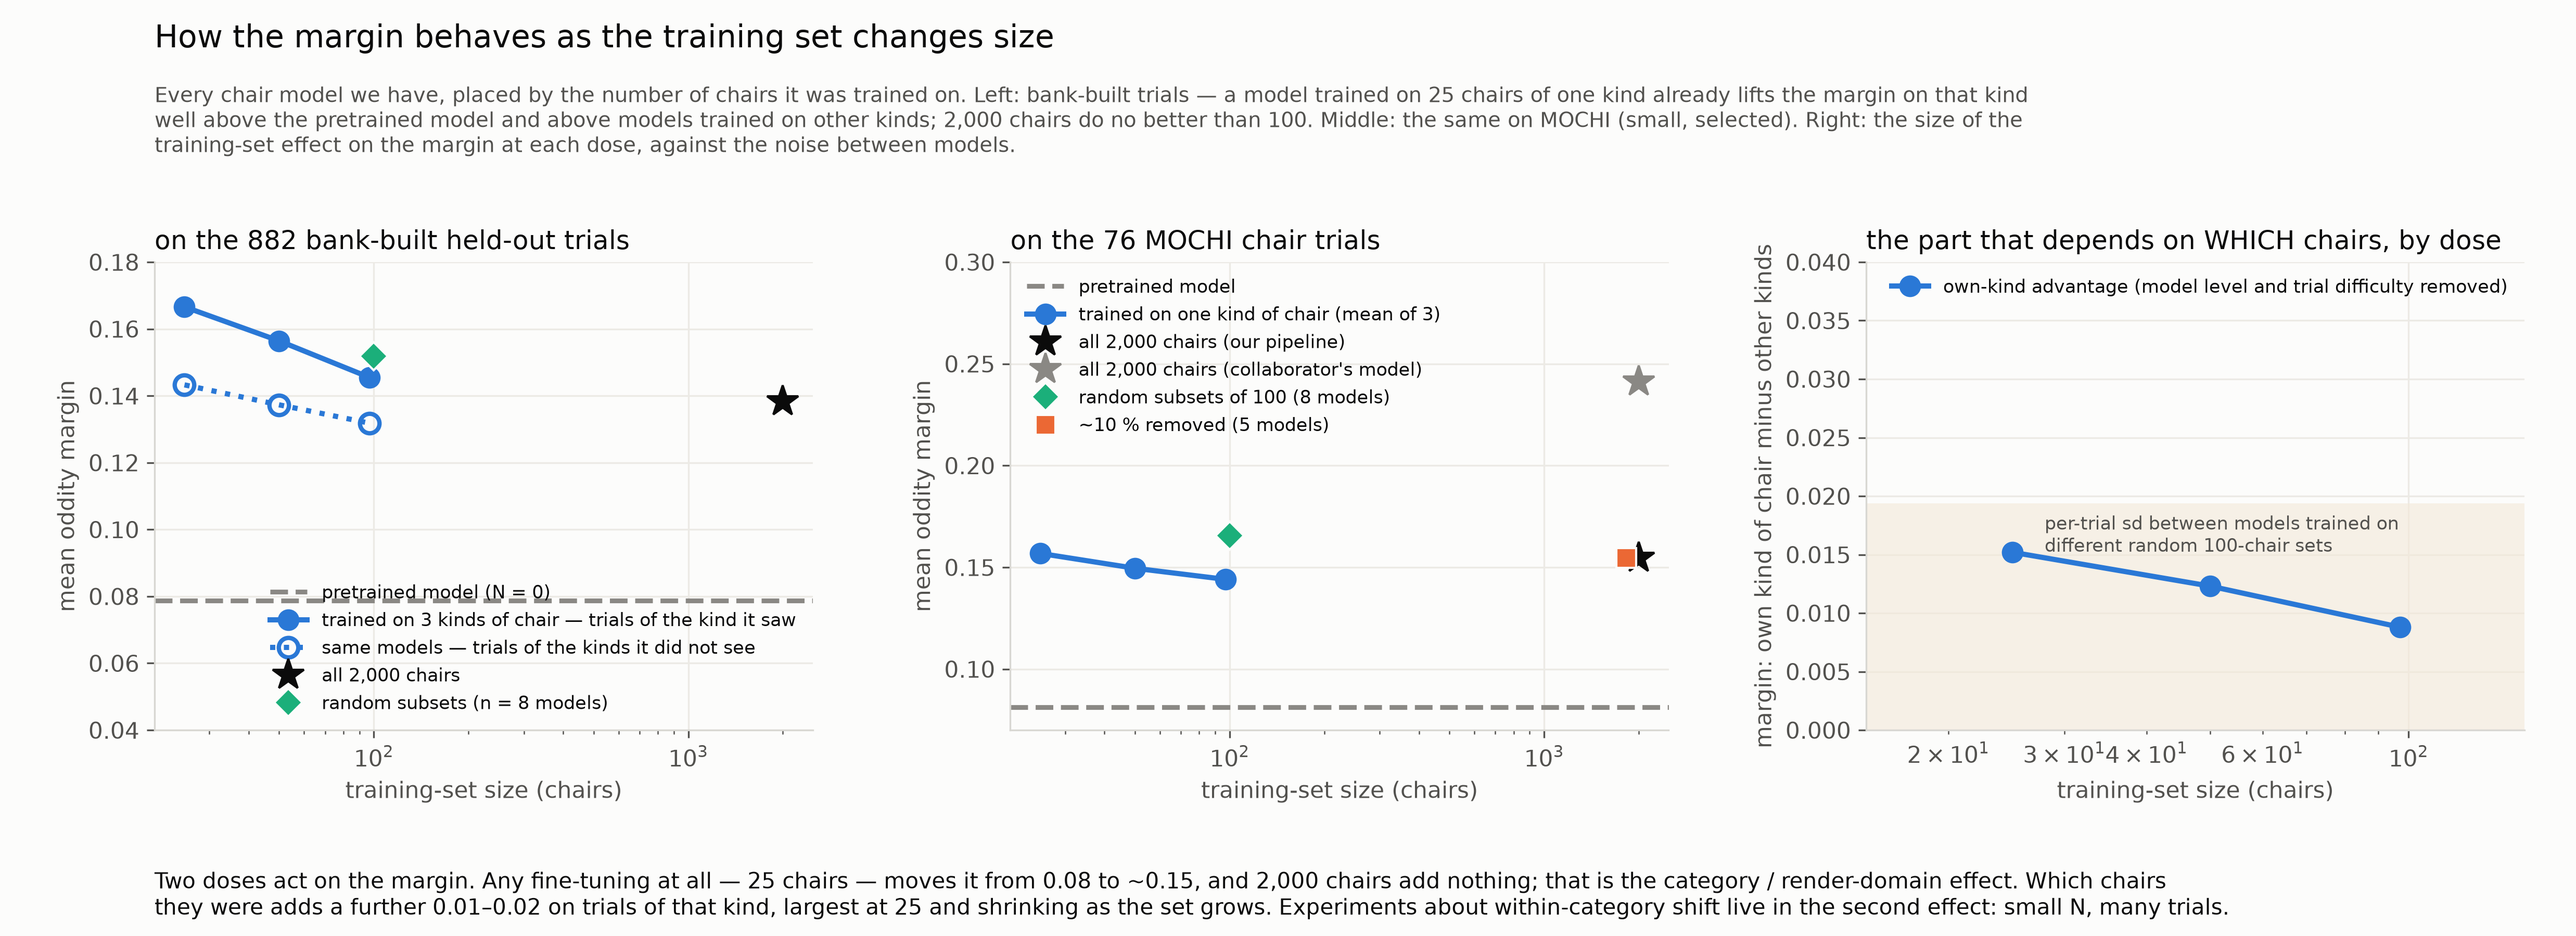
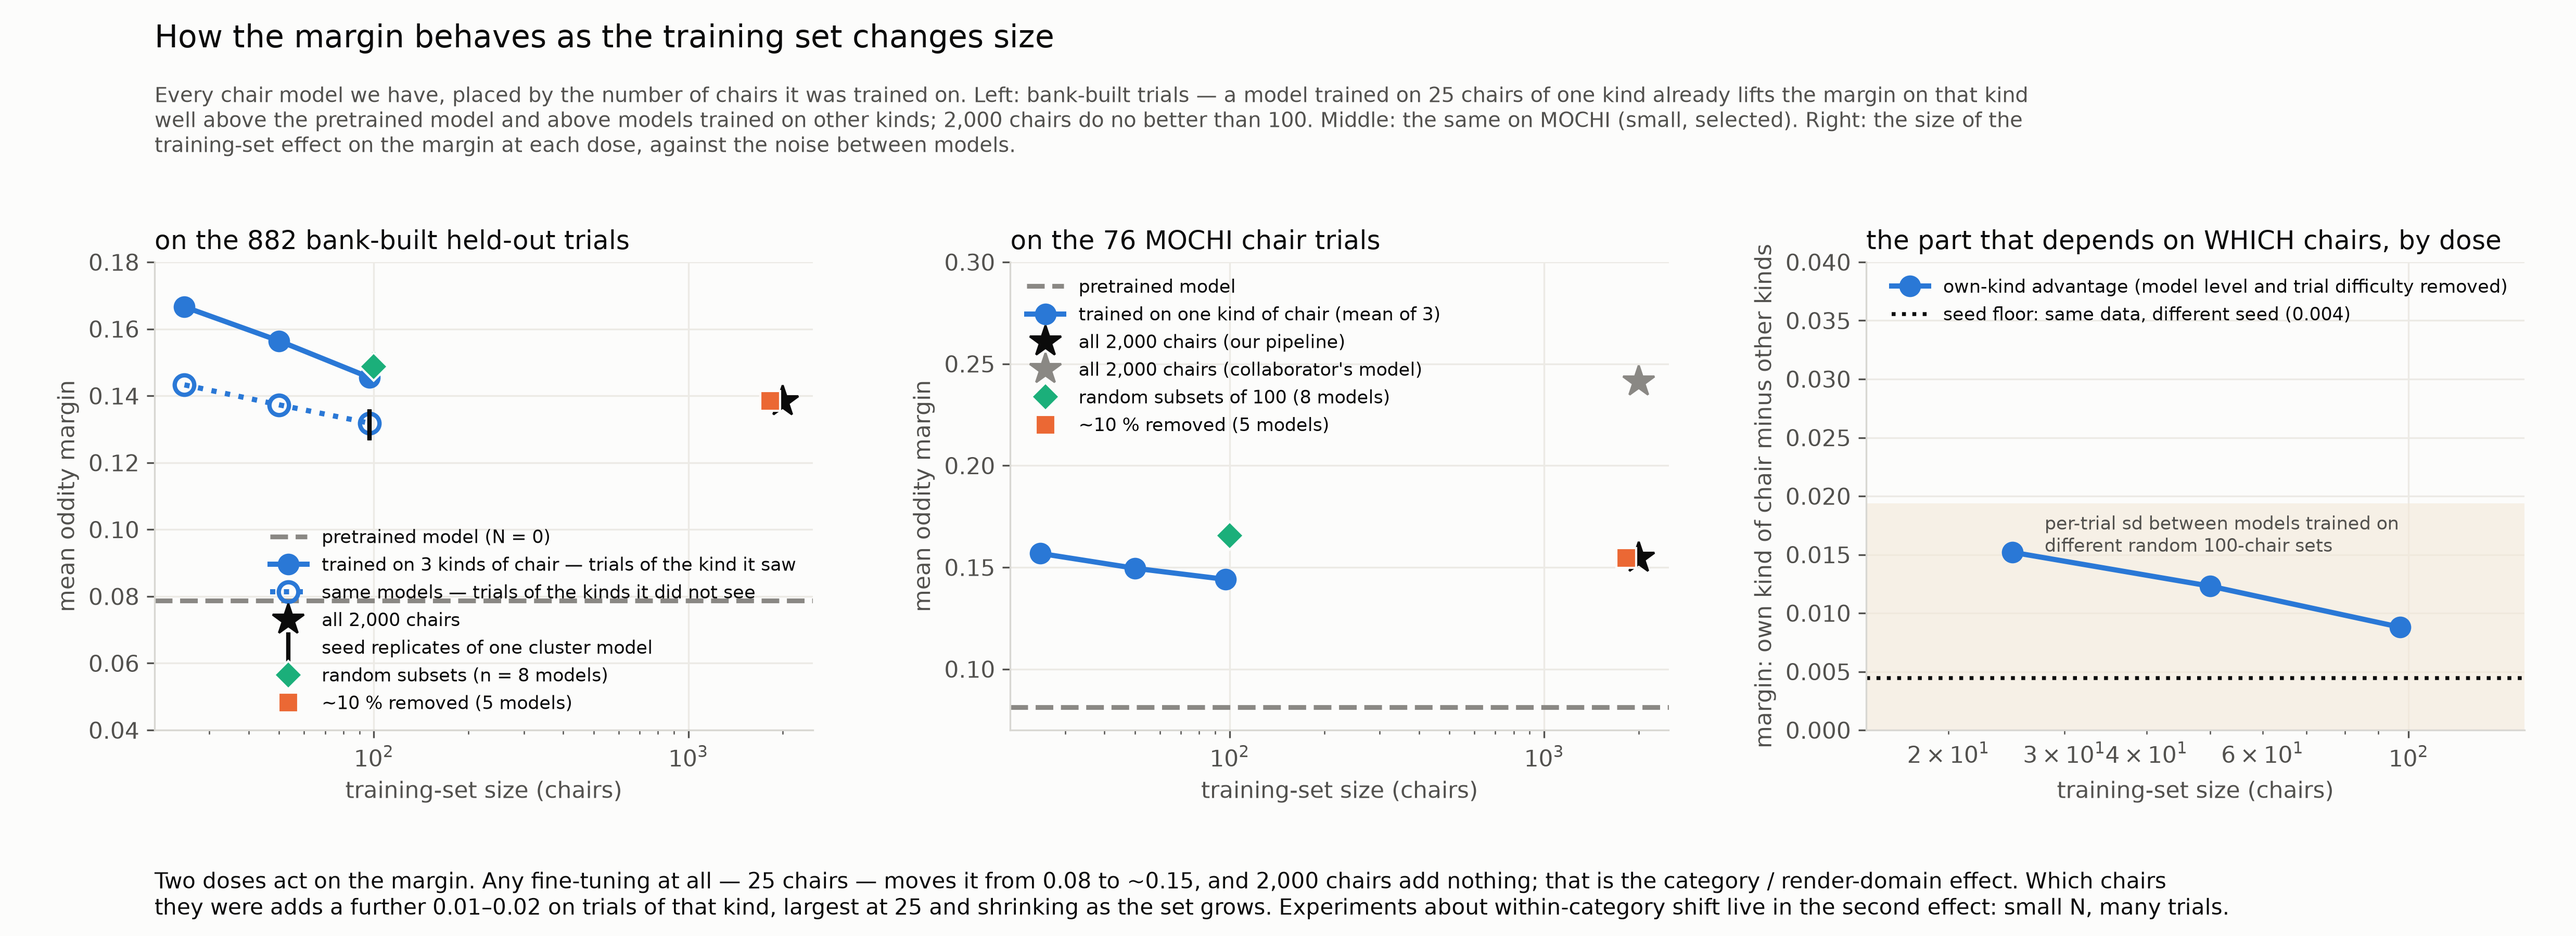
D26: raw rise explained (pair-distance confound, r 0.81); seed floor 0.0035; cluster-free random-subset test passes (p = 0.001); fig73; CHECKS
Claude-Session: https://claude.ai/code/session_017LnypoNuPTEd3UcTymGK1X

diff --git a/scratch/fig_why_margin_rises.py b/scratch/fig_why_margin_rises.py
@@ -1,0 +1,34 @@
+"""Why the as-measured margin RISES with distance to the training set on bank trials: the trials pair each object with a
+near neighbour, and objects far from the training set live in sparse regions, so their neighbours are farther too."""
+import numpy as np, pandas as pd
+from scipy import stats
+import matplotlib; matplotlib.use('Agg'); import matplotlib.pyplot as plt
+G='/vast/projects/bonnen/naturalistic-navig/Dist-shift-data/geometric_shift'
+BLUE,GREY,SURF,INK,INK2,OK,BAD='#2a78d6','#8a8884','#fcfcfb','#0b0b0b','#52514e','#1baf7a','#eb6834'
+plt.rcParams.update({'figure.facecolor':SURF,'axes.facecolor':SURF,'savefig.facecolor':SURF,'font.family':'DejaVu Sans','text.color':INK,'axes.labelcolor':INK2,'xtick.color':INK2,'ytick.color':INK2,'axes.edgecolor':'#d8d7d2','font.size':10.5,'axes.titlesize':12})
+def style(a): a.spines['top'].set_visible(False); a.spines['right'].set_visible(False); a.grid(color='#eceae5',lw=.8,zorder=0); a.set_axisbelow(True)
+def box(a,txt,c,where='ur'):
+    x,y,va,ha={'ur':(0.98,0.96,'top','right'),'ul':(0.02,0.96,'top','left'),'ll':(0.02,0.04,'bottom','left'),'lr':(0.98,0.04,'bottom','right')}[where]
+    a.text(x,y,txt,transform=a.transAxes,fontsize=9.6,color=c,va=va,ha=ha,bbox=dict(boxstyle='round,pad=.4',fc=SURF,ec=c,lw=1.2))
+def bins(x,y,nb=10):
+    q=pd.qcut(x.rank(method='first'),nb,labels=False); gg=pd.DataFrame({'q':q,'x':x,'y':y}).groupby('q'); return gg.x.mean(),gg.y.mean(),gg.y.sem()
+T=pd.read_csv(f'{G}/out/banktrials_dAB.csv')
+def partial(x,y,z):
+    rxy,rxz,ryz=[stats.pearsonr(a,b)[0] for a,b in [(x,y),(x,z),(y,z)]]; return (rxy-rxz*ryz)/np.sqrt((1-rxz**2)*(1-ryz**2))
+fig,ax=plt.subplots(1,3,figsize=(16,5.6)); fig.subplots_adjust(left=.06,right=.98,top=.7,bottom=.2,wspace=.28)
+a=ax[0]; style(a); bx,by,be=bins(T.dist2000,T.dAB); a.errorbar(bx,by,yerr=be,fmt='o-',color=INK,ms=8,mec=SURF,lw=2.4,ecolor='#d5d3ce',zorder=4)
+a.set_xlabel('distance from the trial\'s objects to the training set (all 2,000 chairs)   farther →'); a.set_ylabel('distance between the trial\'s two objects'); a.set_title('far from training = far from everything, including its own partner',loc='left',fontsize=10.5)
+box(a,f'r = {stats.pearsonr(T.dist2000,T.dAB)[0]:+.2f}\nthe trial pairs each object with a near neighbour;\nin a sparse region the nearest neighbour is far',INK,'ul')
+a=ax[1]; style(a); bx,by,be=bins(T.dAB,T.pre); a.errorbar(bx,by,yerr=be,fmt='o--',color=GREY,ms=8,mec=SURF,lw=2.2,ecolor='#d5d3ce',zorder=3,label='pretrained model'); bx,by,be=bins(T.dAB,T.ft2000); a.errorbar(bx,by,yerr=be,fmt='o-',color=BLUE,ms=8,mec=SURF,lw=2.4,ecolor='#bcd0ea',zorder=4,label='model trained on all 2,000 chairs')
+a.set_xlabel('distance between the trial\'s two objects   more different →'); a.set_ylabel('oddity margin'); a.set_title('and a trial whose two objects differ more is easier — for every model',loc='left',fontsize=10.5); a.legend(fontsize=9,frameon=False,loc='lower right')
+box(a,f'pretrained r = {stats.pearsonr(T.dAB,T.pre)[0]:+.2f}   fine-tuned r = {stats.pearsonr(T.dAB,T.ft2000)[0]:+.2f}',INK,'ul')
+a=ax[2]; style(a)
+res_pre=T.pre-np.polyval(np.polyfit(T.dAB,T.pre,1),T.dAB); res_d=T.dist2000-np.polyval(np.polyfit(T.dAB,T.dist2000,1),T.dAB)
+bx,by,be=bins(res_d,res_pre); a.errorbar(bx,by,yerr=be,fmt='o--',color=GREY,ms=8,mec=SURF,lw=2.2,ecolor='#d5d3ce',zorder=3,label='pretrained model')
+a.axhline(0,color='#d8d7d2',lw=1); a.set_xlabel('distance to the training set, with the pair distance held fixed'); a.set_ylabel('pretrained margin, with the pair distance held fixed'); a.set_title('hold the pair distance fixed: the rise is gone',loc='left',fontsize=10.5)
+box(a,f'r = {partial(T.dist2000,T.pre,T.dAB):+.2f}\n✓  flat: nothing about the training set',OK,'ur')
+fig.suptitle('Why the margin seemed to rise with distance from the training set',fontsize=15,x=.06,ha='left',y=.975)
+fig.text(.06,.9,'On the bank-built trials the "as measured" curves rose with distance to the training set before falling. That is not the training set: it is how the trials were built. Each held-out\n'
+ 'object is paired with one of its ten nearest held-out neighbours. Objects far from the training set sit in sparse regions of shape space, so their nearest neighbours are also far —\n'
+ 'the trial\'s two objects differ more, and the trial is easier for any model, trained or not.',fontsize=9.8,color=INK2,va='top')
+fig.savefig(f'{G}/out/figures/fig73_why_margin_rises.png',dpi=300); print('[fig] 73')

diff --git a/REASONING.md b/REASONING.md
@@ -9,6 +9,17 @@ Template — one line each:
 **Steering:** who drove it — lead / agent / joint (note when the lead is deferring) ·
 **Confidence:** one line per contributor, by role and identity — `lead (TB)`, `agent (Claude Opus 5)` — low / medium / high, and what they are unsure of.
 
+<a id="D26"></a>
+## D26 — 2026-09-20 — The rise of the raw margin with distance is how the bank trials were built; seed floor 0.0035; the cluster-free random-subset test passes
+**State:** The lead found the left panel of fig72 unintuitive — why would the margin *rise* as the trial gets farther from the training data? All remaining evaluations landed (seeds, eight random-100, five knockouts on bank trials).
+**Observation:** (1) Distance from a trial to the training set correlates 0.81 with the distance between the trial's own two objects: the bank trials pair each held-out object with one of its ten nearest held-out neighbours, and an object far from the training set sits in a sparse region, so its nearest neighbour is also far, so the pair differs more and the trial is easier for any model (pretrained r with pair distance +0.21; fine-tuned +0.24). Hold the pair distance fixed and the pretrained model's rise with distance-to-training goes from +0.18 to +0.02 (evidence/fig73). (2) Seed floor: three models on the same 104 chairs (seeds 42/43/44) differ per trial by sd 0.0035, means within 0.002; the own-vs-other numbers reproduce to three decimals. So the per-trial spread between models trained on *different* random 100-chair sets (0.0165) is almost entirely data content, and the cluster effect (0.009–0.015) is three to four times the seed floor. (3) The cluster-free test: eight random-100-chair models on the 882 bank trials, within trial, distance to the model's own 100 chairs vs margin: r = −0.077, permutation null sd 0.012 (p = 0.001), 57 % of per-trial slopes negative (p = 8e-8). Smaller than with clusters (−0.26) because the contrast is smaller (distance sd 0.038 vs ~0.25); the slope per unit distance is of the same order (−0.033 vs −0.057).
+**Decision:** Treat (1) as a property of the test set to control in round 3: build trials with matched pair distance (or partial it out), so the raw plot is readable as well as the within-trial one. Treat (3) as the answer to "does clustering matter": no — random composition moves the margin in proportion to the distance contrast it creates.
+**Because:** The pair-distance confound is the same object as the ½·d(A,B) floor of the manuscript's metric (D06), reappearing on the test-set side; naming it once more and designing it out is cheaper than explaining it every time.
+**Rejected:** Reading the raw rise as evidence against the measure; treating the between-subset spread as noise (it is signal — different data, different model).
+**Implication:** Round 3 = random subsets at N = 25 per category on pair-distance-matched bank trials; and the targeted-subset test (D25). Both now have a seed floor to be judged against.
+**Steering:** lead asked the question that exposed the confound; agent tested it.
+**Confidence:** lead (TB): — (to fill) · agent (Claude Opus 5): high on all three.
+
 <a id="D25"></a>
 ## D25 — 2026-09-20 — Distance vs margin by training-set size: as measured, size and difficulty are entangled with it; within trial, every size gives the same falling line
 **State:** The lead re-asked the question precisely: distance on x, margin on y, lines by training-set size — are distance and size so entangled that the relationship moves with N?

diff --git a/agent/INFLIGHT.md b/agent/INFLIGHT.md
@@ -1,7 +1,7 @@
 # INFLIGHT — what is running or waiting, right now
 *Updated 2026-09-20 morning*
 
-- **Seed replicates** chair_c0_all_s43/s44 resubmitted (8528180–81) after `splits.random_seed` proved not to be a key (only `system.random_seed` and `dataset_generation.seed` are). Everything else in batch 2 is complete and analysed (D21).
+- Nothing running. All of batch 2 complete and analysed (D21–D26). Seed floor 0.0035 per trial. Awaiting the lead on round 3 (random subsets at N = 25 per category on pair-distance-matched bank trials; targeted subsets around chosen MOCHI trials).
 - **Batch 2 (D19/D20), `knockout/logs/batch2_jobs.txt`:** ~~12 targeted/cross knock-ins~~ cancelled while pending (D20); 2 seed replicates chair_c0_all_s43/s44 (8526306–07); 9 cluster models chair_c{0,1,2}_{all,n50,n25} (8526137–45, MOCHI + bank-trial eval chained via `run_train_cluster.sbatch`); bank-trial eval test on chair_full (8526136, mig45) — check this first: if `eval_bank/chair_full/ood_analysis_results.csv` is missing, fix `eval_bank.sh` and re-run evals with `run_evalbank_mig45.sbatch`.
 - **Reference twelve on chair bank trials** (8526249–61, mig45, ≈ $3): `eval_bank/ref_<cat>/`. Purpose: calibrate the bank-trial set — chair model should win, the other eleven should order by category distance, pretrained flat. Caveat recorded in D19: no held-out split recoverable, so the chair model has seen these objects.
 - Analysis to write: `scratch/analyze_ref_bank.py` (12 models × 882 chair trials: rank curve, pretrained control), `scratch/analyze_clusters.py` (3 × 3 margin matrix by N; diagonal − off-diagonal; pretrained flat) and `scratch/analyze_knockin_targeted.py` (targeted vs random vs cross on the 6 trials; single-trial figure).

diff --git a/agent/CHECKS.md b/agent/CHECKS.md
@@ -15,6 +15,9 @@ Each caught a real error in this project. The number in brackets is the entry wh
 - **Split-half:** choose on one half of trials, score on the other, ≥20 splits; report wins and held-out values. The 1,895-candidate in-sample winner (p = 0.001 corrected) lost out of sample. [D03, D05]
 - **Permutation null on the max statistic** when reporting a search's best.
 
+## For any test set built from the bank
+- **Pair-distance confound:** distance-to-training correlates 0.81 with the distance between a trial's two objects when trials pair nearest neighbours; raw margin then RISES with distance. Match or partial out the pair distance, or read only the within-trial version. [D26]
+
 ## For any figure
 - **A state figure states its expectation** (what the lines should do if the claim is true; what the control should do) before showing the data, one plot type repeated, verdict boxes graded green / orange / red and worded as concern vs kill honestly. Recipe in FEEDBACK.md. Only measures that existed at that state.
 - **Own axis for the control** when it compresses the effect; **independent y-limits** when panels are compared on shape, not level (fig 17).

diff --git a/evidence/README.md b/evidence/README.md
@@ -34,3 +34,4 @@ level-3 residualised test (session record 2026-09-19; script to be added).
 | fig70_shift_vs_setsize.png | `scratch/fig_shift_vs_setsize.py` | `out/shift_vs_setsize.csv` | D23 |
 | fig71_margin_vs_dose.png | `scratch/fig_margin_vs_dose.py` (re-run as evaluations land) | `out/margin_vs_dose.csv` | D24 |
 | fig72_distance_margin_by_N.png | `scratch/fig_distance_margin_by_N.py` (re-run as evaluations land) | `out/distance_margin_by_N.csv` | D25 |
+| fig73_why_margin_rises.png | `scratch/fig_why_margin_rises.py` | `out/banktrials_dAB.csv` | D26 |
